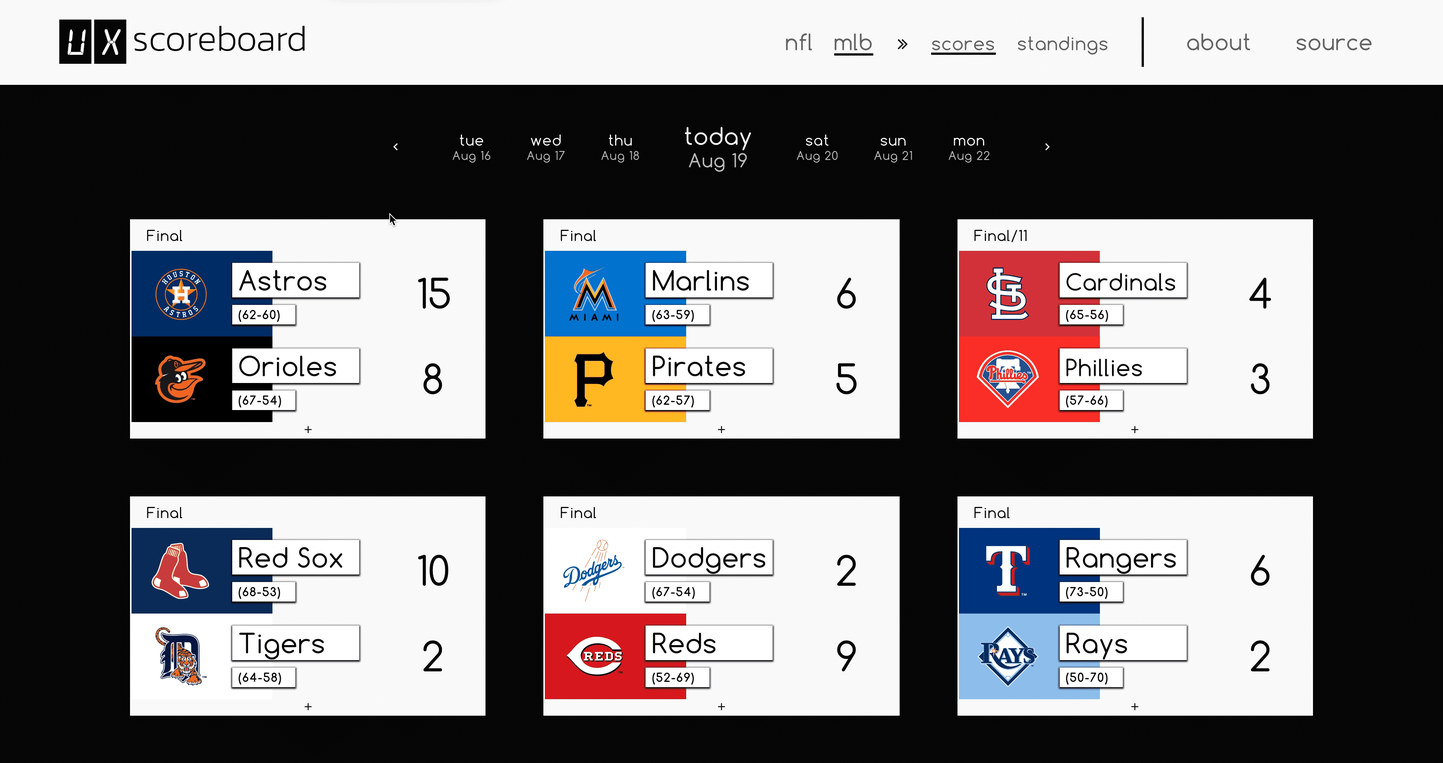
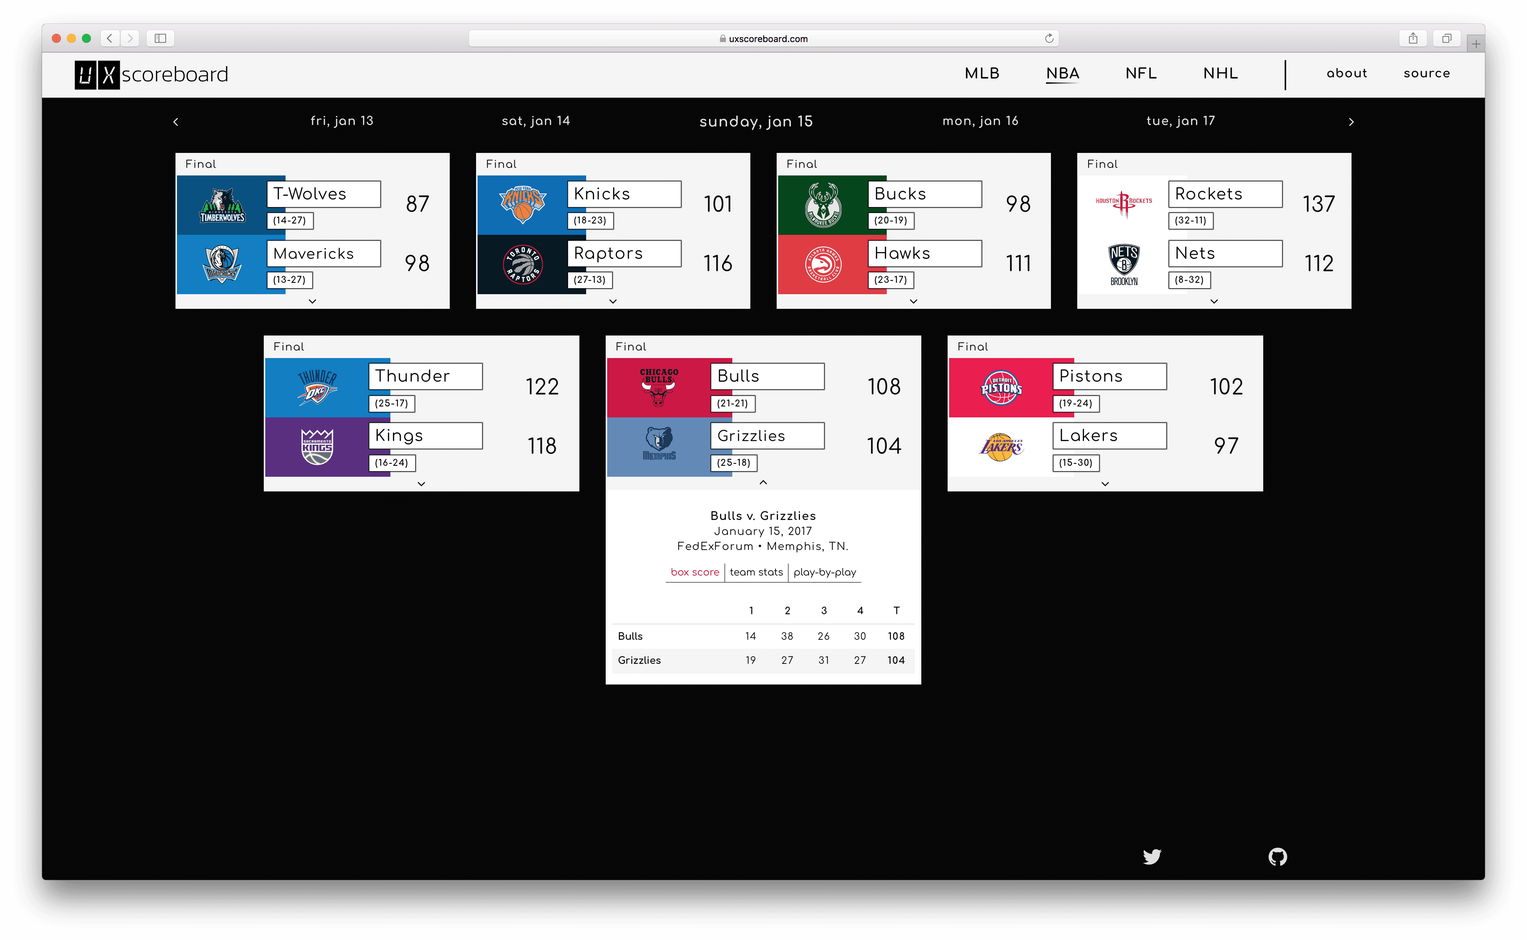
updat project pictures [uxscoreboard//zac.codes]

diff --git a/dist/css/styles.min.css b/dist/css/styles.min.css
@@ -1,1 +1,1 @@
-*{margin:0;padding:0}html,body{height:100%;box-sizing:border-box}*,*::before,*::after{box-sizing:inherit}img{max-width:100%}a{color:inherit;text-decoration:none}ul,menu{list-style-type:none}h1,h2,h3,h4,h5,h6{font-weight:inherit}strong{font-weight:600}input{border:0;background:inherit;font-family:inherit}input:focus{outline:0}figure{text-align:center}figcaption{font-size:.9em}hr{border:0}nav{letter-spacing:1px;font-weight:600}sup{font-size:66%}::-webkit-scrollbar{width:0;height:0;background:transparent}body{color:#070707;background:#fff;font:400 16px/1.45 "Avenir Next",Avenir,"Segoe UI",Roboto,"Helvetica Neue",sans-serif;text-rendering:optimizeLegibility;-webkit-font-smoothing:antialiased;-moz-osx-font-smoothing:grayscale}@media only screen and (max-width:20em){body{font-size:14px}}@media only screen and (min-width:25em){body{font-size:17px}}@media only screen and (min-width:40em){body{font-size:18px}}@media only screen and (min-width:55em){body{font-size:19px}}@media only screen and (min-width:70em){body{font-size:20px}}@media only screen and (min-width:85em){body{font-size:21px}}@media only screen and (min-width:100em){body{font-size:22px}}#app{width:100%;height:100%;display:-ms-flexbox;display:flex;-ms-flex-pack:end;justify-content:flex-end;-ms-flex-direction:column;flex-direction:column}.trigger__container{width:52px;height:52px;z-index:10;position:absolute;top:0;right:0;bottom:0;margin:auto;cursor:pointer}.trigger__line{height:2px;width:24px;display:block;position:absolute;top:25px;left:14px}.sections{display:-ms-flexbox;display:flex;-ms-flex-direction:column;flex-direction:column}@media only screen and (min-width:55em){.sections{-ms-flex-flow:wrap row;flex-flow:wrap row;-ms-flex-pack:justify;justify-content:space-between;font-size:.8em}}.icon{cursor:pointer;display:-ms-flexbox;display:flex;-ms-flex-pack:center;justify-content:center;-ms-flex-align:center;align-items:center}.arrow{height:26px;width:26px;margin:-2em -2% 4em auto;padding:4%}.arrow::before{content:'\f102';font-family:FontAwesome;font-size:1.5em}.transparent .line{background:transparent}.trigger{max-width:1600px;width:100%;height:52px;margin-bottom:-52px;margin-left:auto;margin-right:auto;position:relative;background:transparent}@media only screen and (min-width:40em){.trigger{height:88.89px;margin-bottom:-88.89px}}@media only screen and (min-width:55em){.trigger{height:95.34px;margin-bottom:-95.34px}}@media only screen and (min-width:70em){.trigger{height:99.78px;margin-bottom:-99.78px}}@media only screen and (min-width:85em){.trigger{height:104.23px;margin-bottom:-104.23px}}@media only screen and (min-width:100em){.trigger{height:109.66px;margin-bottom:-109.66px}}.trigger--menu{background:#fff;transition:background 1s linear .66s}.trigger__line{background:#070707;transition:background .22s cubic-bezier(0.25,0.46,0.45,0.94) .44s,transform .44s cubic-bezier(0.25,0.46,0.45,0.94) 0s}.trigger__line--top{transform:translateY(-4px)}.trigger__line--bottom{transform:translateY(4px)}.menu{background:#30049e;color:#fff;text-align:center;position:absolute;top:0;right:0;bottom:0;left:0;z-index:9;opacity:0;visibility:hidden;transition:opacity .22s cubic-bezier(0.25,0.46,0.45,0.94) .44s,visibility 0s .66s}@media only screen and (min-width:40em){.menu{bottom:initial}}.menu__list{display:-ms-flexbox;display:flex;font-size:1.4em;height:100%;-ms-flex-pack:center;justify-content:center;-ms-flex-direction:column;flex-direction:column;-ms-flex-align:center;align-items:center}@media only screen and (min-width:40em){.menu__list{width:70%;margin:0 auto;font-size:.8em;-ms-flex-direction:row;flex-direction:row;-ms-flex-pack:distribute;justify-content:space-around}}.menu__item{margin:1em 0;opacity:0;transition:opacity .22s ease-in}.menu__item:nth-child(1){transition-delay:.22s}.menu__item:nth-child(2){transition-delay:.11s}.menu__item:nth-child(3){transition-delay:0s}@media only screen and (min-width:40em){.menu__item{margin:1.2em 0 .6em}}.menu__link{display:inline-block;padding:.4em;transition:color .26s}.menu__link::before{display:block;margin-bottom:.05em;font:normal 2em/1 FontAwesome}.menu__link--landing::before{content:'\f277'}.menu__link--about::before{content:'\f1e3'}.menu__link--projects::before{content:'\f0c7'}.menu__link::after{content:'';display:block;height:2px;width:2px;margin:0 auto;background:#fff;opacity:0;transform:translateY(-3.2em);transition:width .66s,opacity .33s,transform .33s}.menu__link:hover::after{width:100%;opacity:1;transform:translateY(-2px)}.menu-open .trigger--menu{background:transparent;transition:background 0s}.menu-open .trigger__line{background:#fff;transition-delay:0s}.menu-open .trigger__line--top{transform:rotate(-45deg)}.menu-open .trigger__line--bottom{transform:rotate(45deg)}.menu-open .menu{opacity:1;visibility:visible;transition:opacity .22s cubic-bezier(0.25,0.46,0.45,0.94) 0s}.menu-open .menu__item{opacity:1;transition-duration:.42s}.menu-open .menu__item:nth-child(1){transition-delay:.22s}.menu-open .menu__item:nth-child(2){transition-delay:.33s}.menu-open .menu__item:nth-child(3){transition-delay:.44s}main{display:-ms-flexbox;display:flex;-ms-flex:8;flex:8;max-width:1600px;margin:0 auto 72px;overflow:auto}.page{width:100%;padding:16vh 4% 0;overflow-y:scroll;-webkit-overflow-scrolling:touch}.page h1{font-size:2.827em;font-family:"Yellowtail",cursive}.page h2{font-size:1.9191em;font-family:monospace}.page h3{font-size:1.414em;font-family:monospace}.page h4{font-family:monospace;font-size:1.0505em}.page a{border-bottom:1px solid #070707}footer{width:100%;z-index:8;display:-ms-flexbox;display:flex;-ms-flex:2;flex:2;background:#30049e url("../img/mountains.svg") -1px -1px/100px 72px repeat-x;padding-top:72px;margin-top:-72px;box-shadow:0 -1.2em 1.2em 1.2em #fff}.social{width:80%;max-width:1600px;margin:0 auto;display:-ms-flexbox;display:flex;-ms-flex-align:center;align-items:center}.social__list{width:100%;max-width:333px;margin:0 auto;display:-ms-flexbox;display:flex;-ms-flex-pack:justify;justify-content:space-between}@media only screen and (min-width:55em){.social__list{margin-right:0}}@media only screen and (min-width:85em){.social__list{max-width:399px}}.social__link{color:#fff;font-size:.9em;display:block;padding-top:2px}.social__link::after{content:'';display:block;height:2px;width:2px;margin:0 auto;background:#fff;opacity:0;transform:translateY(-1.6em);transition:width .66s,opacity .33s,transform .33s}.social__link:hover::after{width:100%;opacity:1;transform:translateY(-2px)}.landing{font-size:1.2em;margin:0 auto}@media only screen and (min-width:40em){.landing{width:90%}}@media only screen and (min-width:55em){.landing{width:82.5%}}@media only screen and (min-width:70em){.landing{width:75%}}@media only screen and (min-width:85em){.landing{width:67.5%}}.greeting{text-indent:-0.66em;position:relative}.greeting::first-line {font:400 3.33em/1 "Yellowtail",cursive}@media only screen and (min-width:40em){.greeting{left:-2.5%}}@media only screen and (min-width:55em){.greeting{left:-4.375%;text-indent:-0.99em}}@media only screen and (min-width:70em){.greeting{left:-6.25%}}@media only screen and (min-width:85em){.greeting{left:-8.125%}}.intro{text-align:center;max-width:900px;margin:0 auto}@media only screen and (min-width:55em){.intro{width:80%}}.about__info{margin:2em 0 4em}.about__info_heading{margin-left:4%}@media only screen and (min-width:55em){.about__info{width:48%}}.outer{font-size:.9em;padding-left:2em;margin:2em 0}.inner{font-size:.9em;padding-left:1.5em;display:-ms-flexbox;display:flex;-ms-flex-wrap:wrap;flex-wrap:wrap}.outer li{margin:1em 0;position:relative;font-weight:600}.inner li{margin:.5em 0;width:50%;padding-right:20px;font-weight:initial}.outer li::before{content:'+';position:absolute;left:-16px;font-weight:600}.inner li::before{content:'-';left:-12px}.about__info-personal .outer li{font-weight:initial}.about__info-personal .inner li{width:100%}.svmogi{height:100%;width:20px;display:inline-block;position:absolute;background:transparent center center / contain no-repeat}.ua{display:none}.sfg{background-image:url(../img/about/san-francisco-giants.svg);margin-left:-1px}.sf49{background-image:url(../img/about/san-francisco-49ers.svg);margin-left:3px}.gsw{background-image:url(../img/about/golden-state-warriors.svg);margin-left:1px}.hide{opacity:0;transition:opacity 1s}.show{opacity:1;transition:opacity 1s}@media only screen and (min-width:55em){.project{width:47%}}.project:not(:last-child)::after{content:'';display:block;height:2px;background-image:linear-gradient(90deg,transparent,#070707,transparent);margin:4em auto;width:88%}.project__date{color:#616161}.project__preview{margin:1em 0}.project__image{background:#070707;padding:1%}.project__intro{text-align:center;margin-bottom:.5em}.project__icon{float:right;font-weight:600;height:2em;border-bottom:1px solid #070707;border-right:1px solid #070707;padding-left:1em}.project__icon::after{content:'+';width:1.5em;text-align:center;transition:transform .44s}.project__expandIcon--expanded::after,.project__closeIcon::after{transform:rotate(-135deg)}.project__closeIcon{font-size:1.11em;margin-bottom:1px;overflow:hidden}.project__details{font-size:.9em;clear:both;overflow-y:hidden;max-height:0;counter-reset:section;transition:max-height .44s}.details__section{margin-bottom:3em}.details__section:first-child{margin-top:2em}.details__section .details__subheader:first-of-type{margin-top:1.5em}.details__header{margin-bottom:1em;font-weight:600}.details__header::before{display:inline;border-bottom:1px solid #070707;margin-right:.4em;counter-increment:section;content:counter(section,lower-roman) ". "}.details__subheader{font-size:.96969em;font-weight:600;font-style:italic;margin:2em 0 .5em}.details__content{margin-bottom:1em}.details__list{font-size:.9em;padding-left:2em;margin-bottom:2em;list-style-type:circle}.details__listItem{margin:.5em 0}.details__tldr{margin-bottom:2em}.details__tldr::before{content:'';display:block;height:2px;background-image:linear-gradient(90deg,transparent,#070707,transparent);margin:0 auto 3em;width:60%}.project:last-child{margin-bottom:6em}.preview{display:-ms-flexbox;display:flex;-ms-flex-align:center;align-items:center}.preview .x{display:none;width:52px;height:52px;position:absolute;top:0;right:0;cursor:pointer}.preview img{cursor:pointer;display:block;margin:0 auto}.preview figcaption{color:#616161;font-size:.9em}.hippify img{border:1px solid #070707;padding:2% 4%}.klopro img{border:1px solid #070707;background:#fff;padding:2% 4% 0}.fullscreen img{border:0}
+*{margin:0;padding:0}html,body{height:100%;box-sizing:border-box}*,*::before,*::after{box-sizing:inherit}img{max-width:100%}a{color:inherit;text-decoration:none}ul,menu{list-style-type:none}h1,h2,h3,h4,h5,h6{font-weight:inherit}strong{font-weight:600}input{border:0;background:inherit;font-family:inherit}input:focus{outline:0}figure{text-align:center}figcaption{font-size:.9em}hr{border:0}nav{letter-spacing:1px;font-weight:600}sup{font-size:66%}::-webkit-scrollbar{width:0;height:0;background:transparent}body{color:#070707;background:#fff;font:400 16px/1.45 "Avenir Next",Avenir,"Segoe UI",Roboto,"Helvetica Neue",sans-serif;text-rendering:optimizeLegibility;-webkit-font-smoothing:antialiased;-moz-osx-font-smoothing:grayscale}@media only screen and (max-width:20em){body{font-size:14px}}@media only screen and (min-width:25em){body{font-size:17px}}@media only screen and (min-width:40em){body{font-size:18px}}@media only screen and (min-width:55em){body{font-size:19px}}@media only screen and (min-width:70em){body{font-size:20px}}@media only screen and (min-width:85em){body{font-size:21px}}@media only screen and (min-width:100em){body{font-size:22px}}#app{width:100%;height:100%;display:-ms-flexbox;display:flex;-ms-flex-pack:end;justify-content:flex-end;-ms-flex-direction:column;flex-direction:column}.trigger__container{width:52px;height:52px;z-index:10;position:absolute;top:0;right:0;bottom:0;margin:auto;cursor:pointer}.trigger__line{height:2px;width:24px;display:block;position:absolute;top:25px;left:14px}.sections{display:-ms-flexbox;display:flex;-ms-flex-direction:column;flex-direction:column}@media only screen and (min-width:55em){.sections{-ms-flex-flow:wrap row;flex-flow:wrap row;-ms-flex-pack:justify;justify-content:space-between;font-size:.8em}}.icon{cursor:pointer;display:-ms-flexbox;display:flex;-ms-flex-pack:center;justify-content:center;-ms-flex-align:center;align-items:center}.arrow{height:26px;width:26px;margin:-2em -2% 4em auto;padding:4%}.arrow::before{content:'\f102';font-family:FontAwesome;font-size:1.5em}.transparent .line{background:transparent}.trigger{max-width:1600px;width:100%;height:52px;margin-bottom:-52px;margin-left:auto;margin-right:auto;position:relative;background:transparent}@media only screen and (min-width:40em){.trigger{height:88.89px;margin-bottom:-88.89px}}@media only screen and (min-width:55em){.trigger{height:95.34px;margin-bottom:-95.34px}}@media only screen and (min-width:70em){.trigger{height:99.78px;margin-bottom:-99.78px}}@media only screen and (min-width:85em){.trigger{height:104.23px;margin-bottom:-104.23px}}@media only screen and (min-width:100em){.trigger{height:109.66px;margin-bottom:-109.66px}}.trigger--menu{background:#fff;transition:background 1s linear .66s}.trigger__line{background:#070707;transition:background .22s cubic-bezier(0.25,0.46,0.45,0.94) .44s,transform .44s cubic-bezier(0.25,0.46,0.45,0.94) 0s}.trigger__line--top{transform:translateY(-4px)}.trigger__line--bottom{transform:translateY(4px)}.menu{background:#30049e;color:#fff;text-align:center;position:absolute;top:0;right:0;bottom:0;left:0;z-index:9;opacity:0;visibility:hidden;transition:opacity .22s cubic-bezier(0.25,0.46,0.45,0.94) .44s,visibility 0s .66s}@media only screen and (min-width:40em){.menu{bottom:initial}}.menu__list{display:-ms-flexbox;display:flex;font-size:1.4em;height:100%;-ms-flex-pack:center;justify-content:center;-ms-flex-direction:column;flex-direction:column;-ms-flex-align:center;align-items:center}@media only screen and (min-width:40em){.menu__list{width:70%;margin:0 auto;font-size:.8em;-ms-flex-direction:row;flex-direction:row;-ms-flex-pack:distribute;justify-content:space-around}}.menu__item{margin:1em 0;opacity:0;transition:opacity .22s ease-in}.menu__item:nth-child(1){transition-delay:.22s}.menu__item:nth-child(2){transition-delay:.11s}.menu__item:nth-child(3){transition-delay:0s}@media only screen and (min-width:40em){.menu__item{margin:1.2em 0 .6em}}.menu__link{display:inline-block;padding:.4em;transition:color .26s}.menu__link::before{display:block;margin-bottom:.05em;font:normal 2em/1 FontAwesome}.menu__link--landing::before{content:'\f277'}.menu__link--about::before{content:'\f1e3'}.menu__link--projects::before{content:'\f0c7'}.menu__link::after{content:'';display:block;height:2px;width:2px;margin:0 auto;background:#fff;opacity:0;transform:translateY(-3.2em);transition:width .66s,opacity .33s,transform .33s}.menu__link:hover::after{width:100%;opacity:1;transform:translateY(-2px)}.menu-open .trigger--menu{background:transparent;transition:background 0s}.menu-open .trigger__line{background:#fff;transition-delay:0s}.menu-open .trigger__line--top{transform:rotate(-45deg)}.menu-open .trigger__line--bottom{transform:rotate(45deg)}.menu-open .menu{opacity:1;visibility:visible;transition:opacity .22s cubic-bezier(0.25,0.46,0.45,0.94) 0s}.menu-open .menu__item{opacity:1;transition-duration:.42s}.menu-open .menu__item:nth-child(1){transition-delay:.22s}.menu-open .menu__item:nth-child(2){transition-delay:.33s}.menu-open .menu__item:nth-child(3){transition-delay:.44s}main{display:-ms-flexbox;display:flex;-ms-flex:8;flex:8;max-width:1600px;margin:0 auto 72px;overflow:auto}.page{width:100%;padding:16vh 4% 0;overflow-y:scroll;-webkit-overflow-scrolling:touch}.page h1{font-size:2.827em;font-family:"Yellowtail",cursive}.page h2{font-size:1.9191em;font-family:monospace}.page h3{font-size:1.414em;font-family:monospace}.page h4{font-family:monospace;font-size:1.0505em}.page a{border-bottom:1px solid #070707}footer{width:100%;z-index:8;display:-ms-flexbox;display:flex;-ms-flex:2;flex:2;background:#30049e url("../img/mountains.svg") -1px -1px/100px 72px repeat-x;padding-top:72px;margin-top:-72px;box-shadow:0 -1.2em 1.2em 1.2em #fff}.social{width:80%;max-width:1600px;margin:0 auto;display:-ms-flexbox;display:flex;-ms-flex-align:center;align-items:center}.social__list{width:100%;max-width:333px;margin:0 auto;display:-ms-flexbox;display:flex;-ms-flex-pack:justify;justify-content:space-between}@media only screen and (min-width:55em){.social__list{margin-right:0}}@media only screen and (min-width:85em){.social__list{max-width:399px}}.social__link{color:#fff;font-size:.9em;display:block;padding-top:2px}.social__link::after{content:'';display:block;height:2px;width:2px;margin:0 auto;background:#fff;opacity:0;transform:translateY(-1.6em);transition:width .66s,opacity .33s,transform .33s}.social__link:hover::after{width:100%;opacity:1;transform:translateY(-2px)}.landing{font-size:1.2em;margin:0 auto}@media only screen and (min-width:40em){.landing{width:90%}}@media only screen and (min-width:55em){.landing{width:82.5%}}@media only screen and (min-width:70em){.landing{width:75%}}@media only screen and (min-width:85em){.landing{width:67.5%}}.greeting{text-indent:-0.66em;position:relative}.greeting::first-line {font:400 3.33em/1 "Yellowtail",cursive}@media only screen and (min-width:40em){.greeting{left:-2.5%}}@media only screen and (min-width:55em){.greeting{left:-4.375%;text-indent:-0.99em}}@media only screen and (min-width:70em){.greeting{left:-6.25%}}@media only screen and (min-width:85em){.greeting{left:-8.125%}}.intro{text-align:center;max-width:900px;margin:0 auto}@media only screen and (min-width:55em){.intro{width:80%}}.about__info{margin:2em 0 4em}.about__info_heading{margin-left:4%}@media only screen and (min-width:55em){.about__info{width:48%}}.outer{font-size:.9em;padding-left:2em;margin:2em 0}.inner{font-size:.9em;padding-left:1.5em;display:-ms-flexbox;display:flex;-ms-flex-wrap:wrap;flex-wrap:wrap}.outer li{margin:1em 0;position:relative;font-weight:600}.inner li{margin:.5em 0;width:50%;padding-right:20px;font-weight:initial}.outer li::before{content:'+';position:absolute;left:-16px;font-weight:600}.inner li::before{content:'-';left:-12px}.about__info-personal .outer li{font-weight:initial}.about__info-personal .inner li{width:100%}.svmogi{height:100%;width:20px;display:inline-block;position:absolute;background:transparent center center / contain no-repeat}.ua{display:none}.sfg{background-image:url(../img/about/san-francisco-giants.svg);margin-left:-1px}.sf49{background-image:url(../img/about/san-francisco-49ers.svg);margin-left:3px}.gsw{background-image:url(../img/about/golden-state-warriors.svg);margin-left:1px}.hide{opacity:0;transition:opacity 1s}.show{opacity:1;transition:opacity 1s}@media only screen and (min-width:55em){.project{width:47%}}.project:not(:last-child)::after{content:'';display:block;height:2px;background-image:linear-gradient(90deg,transparent,#070707,transparent);margin:4em auto;width:88%}.project__date{color:#616161}.project__preview{margin:1em 0}.project__intro{text-align:center;margin-bottom:.5em}.project__icon{float:right;font-weight:600;height:2em;border-bottom:1px solid #070707;border-right:1px solid #070707;padding-left:1em}.project__icon::after{content:'+';width:1.5em;text-align:center;transition:transform .44s}.project__expandIcon--expanded::after,.project__closeIcon::after{transform:rotate(-135deg)}.project__closeIcon{font-size:1.11em;margin-bottom:1px;overflow:hidden}.project__details{font-size:.9em;clear:both;overflow-y:hidden;max-height:0;counter-reset:section;transition:max-height .44s}.details__section{margin-bottom:3em}.details__section:first-child{margin-top:2em}.details__section .details__subheader:first-of-type{margin-top:1.5em}.details__header{margin-bottom:1em;font-weight:600}.details__header::before{display:inline;border-bottom:1px solid #070707;margin-right:.4em;counter-increment:section;content:counter(section,lower-roman) ". "}.details__subheader{font-size:.96969em;font-weight:600;font-style:italic;margin:2em 0 .5em}.details__content{margin-bottom:1em}.details__list{font-size:.9em;padding-left:2em;margin-bottom:2em;list-style-type:circle}.details__listItem{margin:.5em 0}.details__tldr{margin-bottom:2em}.details__tldr::before{content:'';display:block;height:2px;background-image:linear-gradient(90deg,transparent,#070707,transparent);margin:0 auto 3em;width:60%}.project:last-child{margin-bottom:6em}.preview{display:-ms-flexbox;display:flex;-ms-flex-align:center;align-items:center}.preview .x{display:none;width:52px;height:52px;position:absolute;top:0;right:0;cursor:pointer}.preview img{cursor:pointer;display:block;margin:0 auto}.preview figcaption{color:#616161;font-size:.9em}.hippify img{border:1px solid #070707;padding:2% 4%}.klopro img{border:1px solid #070707;background:#fff;padding:2% 4% 0}.fullscreen img{border:0}

diff --git a/app/projects/index.html b/app/projects/index.html
@@ -36,7 +36,7 @@
               <div class="project__preview">
                 <figure class="project__figure">
                   <img class="project__image" src="../img/projects/uxscoreboard-preview.png">
-                  <figcaption class="project__caption">mlb scores - uxscoreboard</figcaption>
+                  <figcaption class="project__caption">nba scores - uxscoreboard</figcaption>
                 </figure>
               </div>
               <p class="project__intro">A sports scoreboard web app built on react.js and es6; features all MLB, NBA, NFL (coming soon), and NHL season and playoff games.</p>
@@ -100,12 +100,12 @@
             </div>
 
             <div class="project js-project project--zacarellano">
-              <h2 class="project__title">zacarellano</h2>
+              <h2 class="project__title">zac.codes</h2>
               <h3 class="project__date">fall 2016</h3>
               <div class="project__preview">
                 <figure class="project__figure">
-                  <img class="project__image" src="../img/projects/zacarellano-preview.png">
-                  <figcaption class="project__caption">portfolio - zacarellano</figcaption>
+                  <img class="project__image" src="../img/projects/zac.codes-preview.png">
+                  <figcaption class="project__caption">personal portfolio - zac.codes</figcaption>
                 </figure>
               </div>
               <p class="project__intro">A minimal, single-page app portfolio built solely on html, sass, and vanilla javascript.<br></p>
@@ -114,8 +114,8 @@
                 <section class="details__section">
                   <h4 class="details__header">website(s)</h4>
                   <ul class="details__list">
-                    <li class="details__listItem"><a href="https://zacarellano.com">https://zacarellano.com</a></li>
-                    <li class="details__listItem"><a href="https://github.com/zacarellano/zacarellano">https://github.com/zacarellano/zacarellano</a></li>
+                    <li class="details__listItem"><a href="https://zac.codes">https://zac.codes</a></li>
+                    <li class="details__listItem"><a href="https://github.com/zacarellano/zac.codes">https://github.com/zacarellano/zac.codes</a></li>
                   </ul>
                 </section>
                 <section class="details__section">

diff --git a/dist/projects/index.html b/dist/projects/index.html
@@ -36,7 +36,7 @@
               <div class="project__preview">
                 <figure class="project__figure">
                   <img class="project__image" src="../img/projects/uxscoreboard-preview.png">
-                  <figcaption class="project__caption">mlb scores - uxscoreboard</figcaption>
+                  <figcaption class="project__caption">nba scores - uxscoreboard</figcaption>
                 </figure>
               </div>
               <p class="project__intro">A sports scoreboard web app built on react.js and es6; features all MLB, NBA, NFL (coming soon), and NHL season and playoff games.</p>
@@ -100,12 +100,12 @@
             </div>
 
             <div class="project js-project project--zacarellano">
-              <h2 class="project__title">zacarellano</h2>
+              <h2 class="project__title">zac.codes</h2>
               <h3 class="project__date">fall 2016</h3>
               <div class="project__preview">
                 <figure class="project__figure">
-                  <img class="project__image" src="../img/projects/zacarellano-preview.png">
-                  <figcaption class="project__caption">portfolio - zacarellano</figcaption>
+                  <img class="project__image" src="../img/projects/zac.codes-preview.png">
+                  <figcaption class="project__caption">personal portfolio - zac.codes</figcaption>
                 </figure>
               </div>
               <p class="project__intro">A minimal, single-page app portfolio built solely on html, sass, and vanilla javascript.<br></p>
@@ -114,8 +114,8 @@
                 <section class="details__section">
                   <h4 class="details__header">website(s)</h4>
                   <ul class="details__list">
-                    <li class="details__listItem"><a href="https://zacarellano.com">https://zacarellano.com</a></li>
-                    <li class="details__listItem"><a href="https://github.com/zacarellano/zacarellano">https://github.com/zacarellano/zacarellano</a></li>
+                    <li class="details__listItem"><a href="https://zac.codes">https://zac.codes</a></li>
+                    <li class="details__listItem"><a href="https://github.com/zacarellano/zac.codes">https://github.com/zacarellano/zac.codes</a></li>
                   </ul>
                 </section>
                 <section class="details__section">

diff --git a/dist/css/styles.css b/dist/css/styles.css
@@ -524,9 +524,6 @@ footer {
     color: #616161; }
   .project__preview {
     margin: 1em 0; }
-  .project__image {
-    background: #070707;
-    padding: 1%; }
   .project__intro {
     text-align: center;
     margin-bottom: 0.5em; }

diff --git a/app/sass/pages/_projects.scss b/app/sass/pages/_projects.scss
@@ -27,8 +27,8 @@
   }
 
   &__image {
-    background:$color__black;
-    padding:1%;
+    // background:$color__black;
+    // padding:1%;
   }
 
   /* -------  project intro  ------- */
